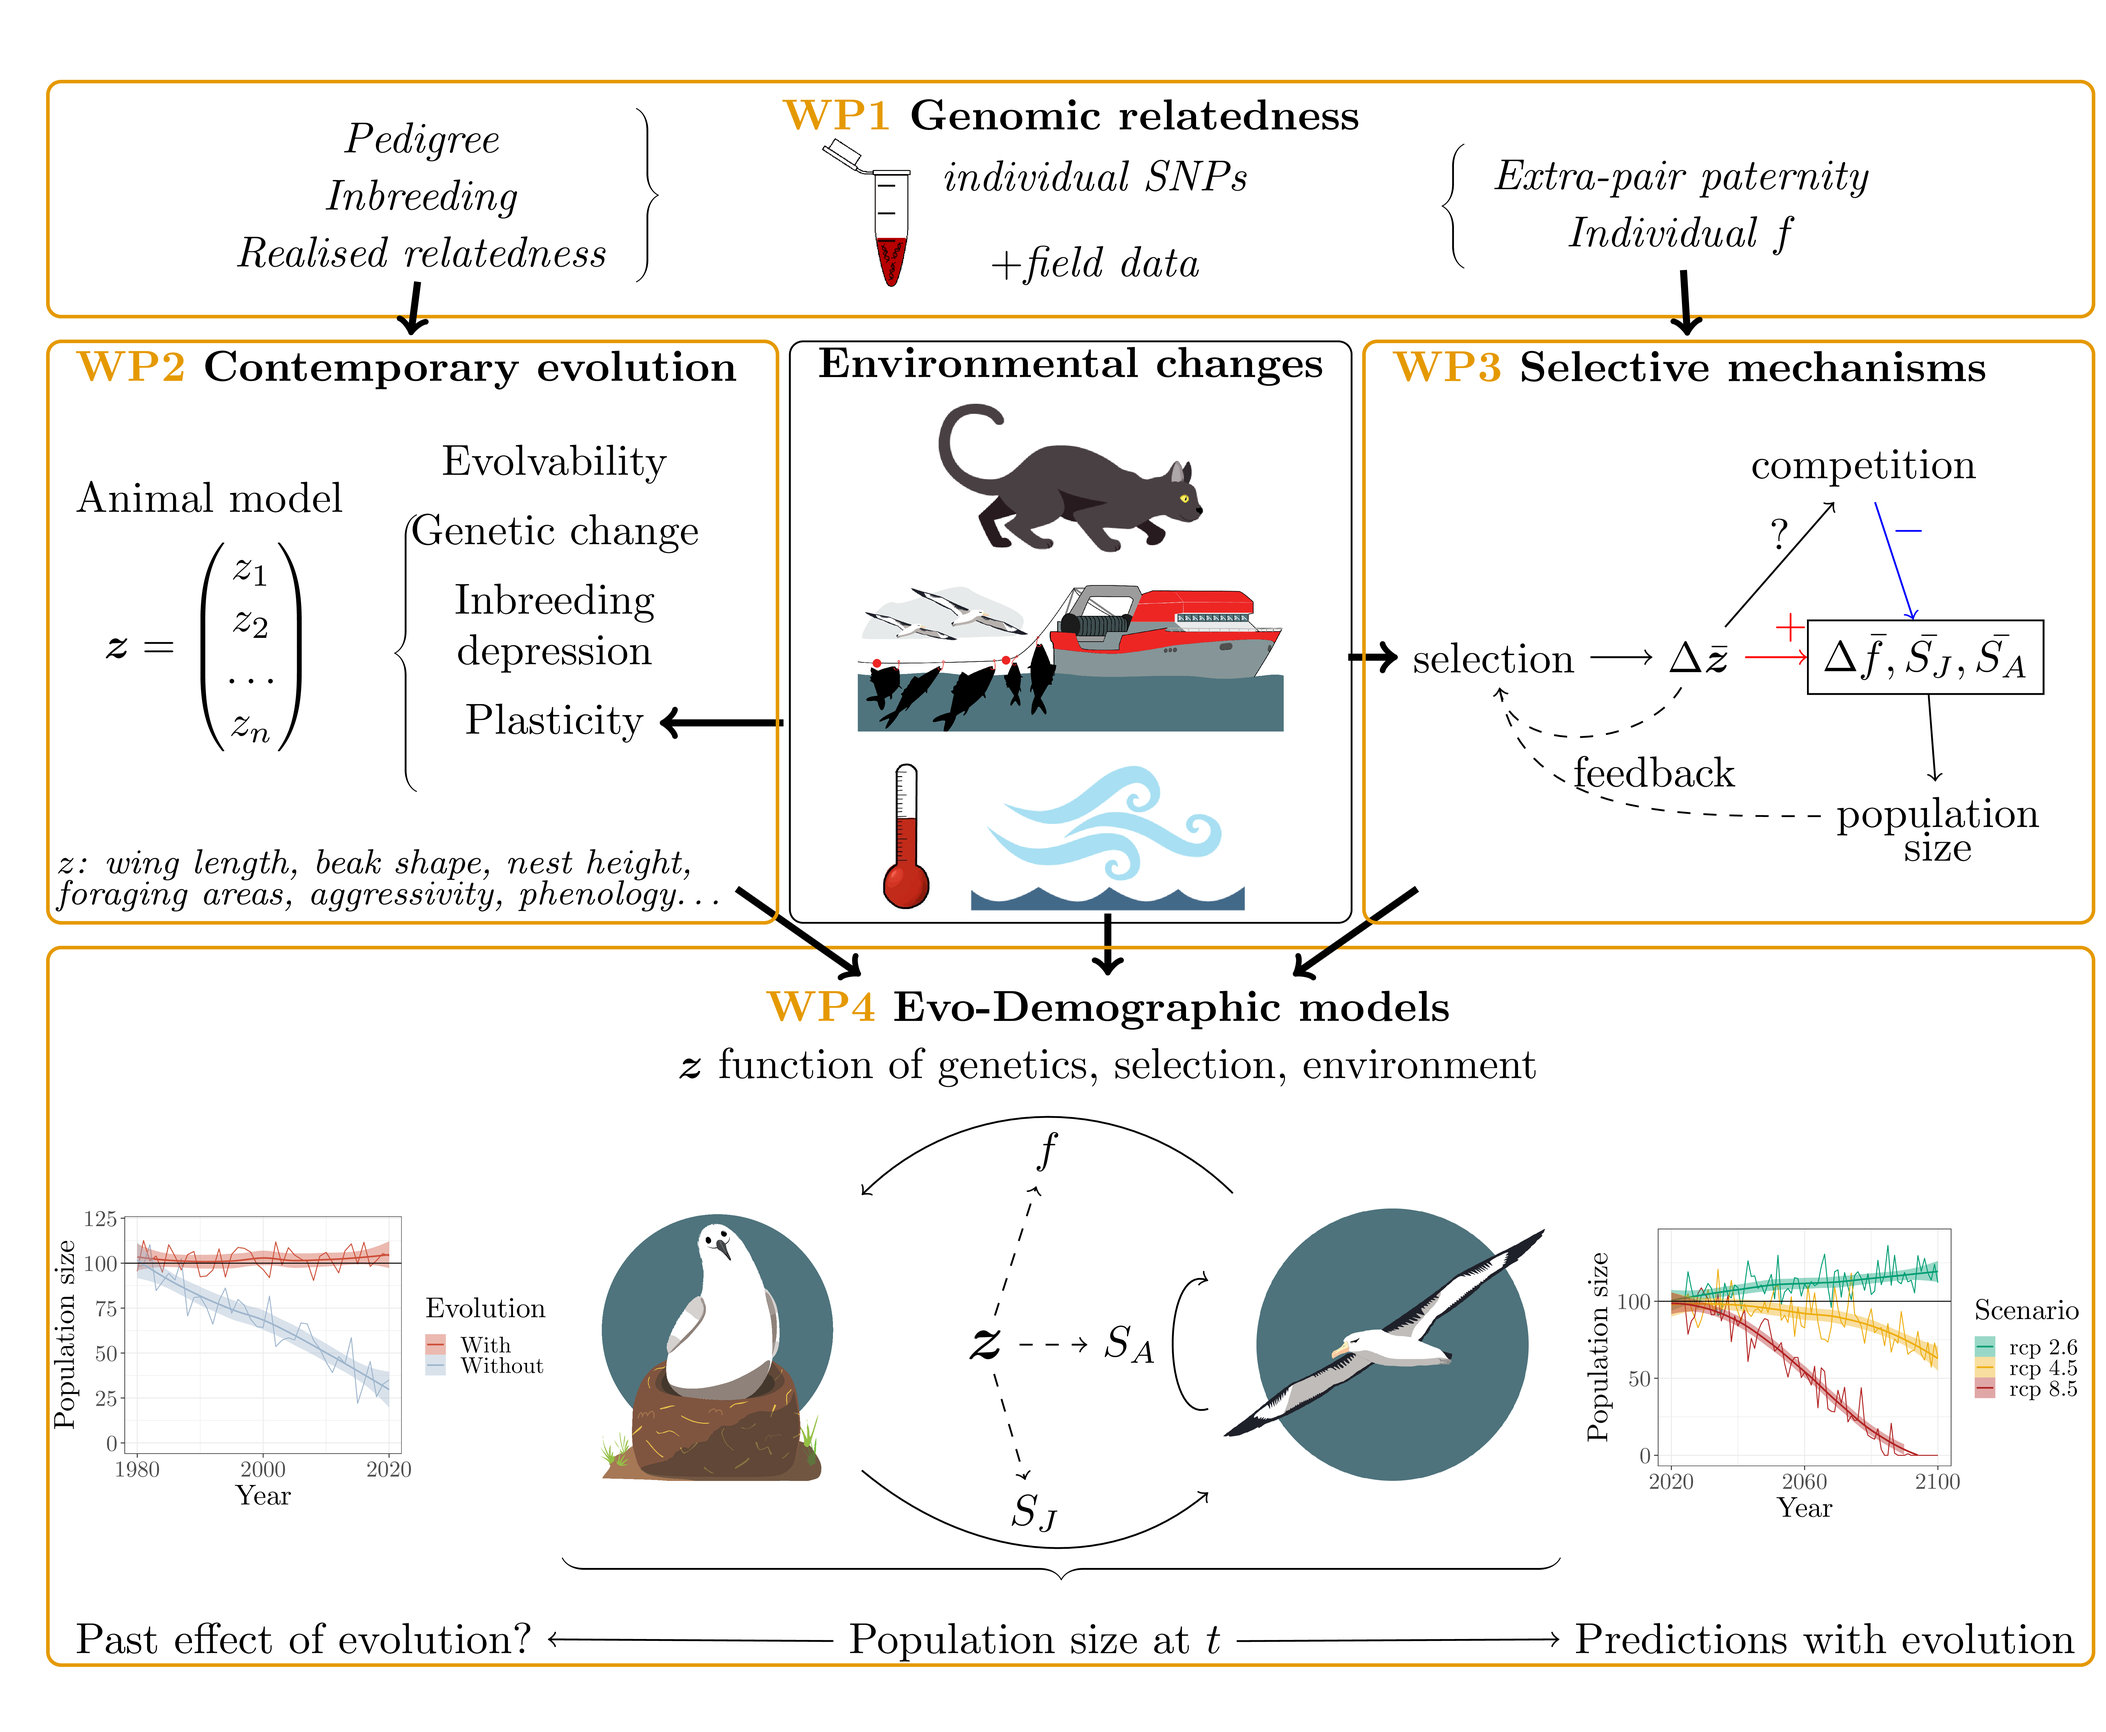
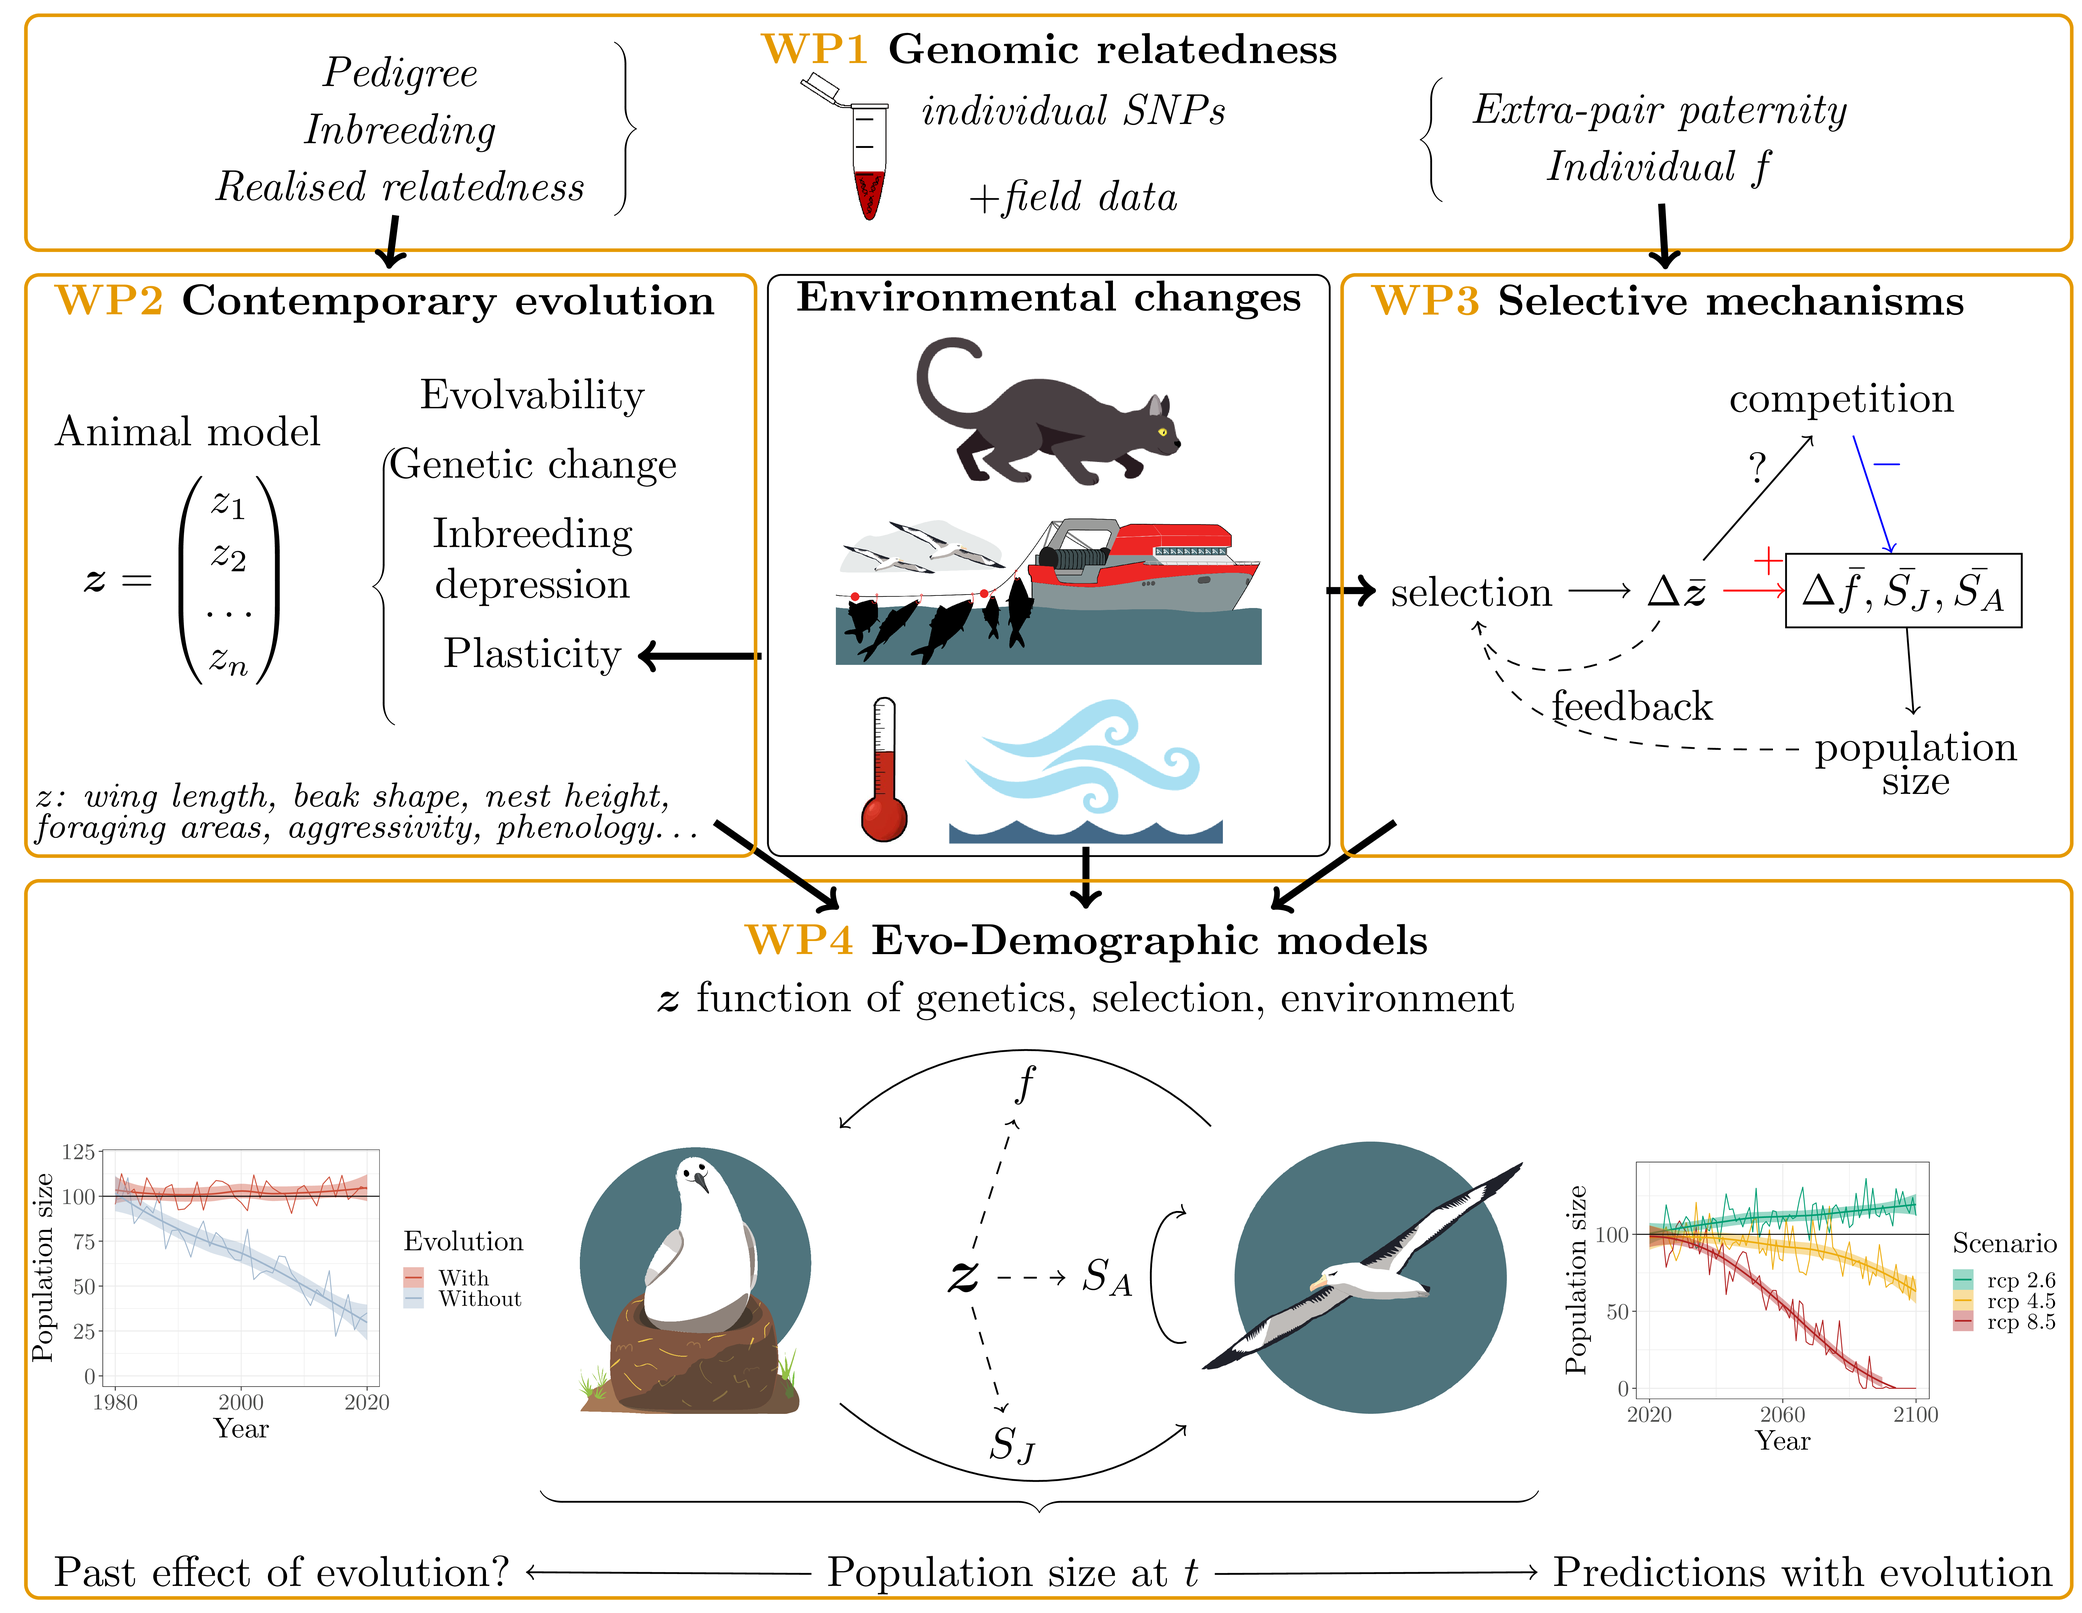
++

diff --git a/dwells/index.md b/dwells/index.md
@@ -11,8 +11,33 @@ image:
   creditlink: http://timotheenivalis.github.io
 ---
 
-The project Demography With Evolution in Long-Lived Seabirds (**DWELLS**) is funded by the *Agence Nationale de la Recherche* from 2025 to 2028. This page provides 
+The project Demography With Evolution in Long-Lived Seabirds (**DWELLS**) from 2025 to 2028. On this page I briefly present the project and will post updates on results and scientific contributions. 
+
+The project is funded by the *Agence Nationale de la Recherche*, takes place at CEBC, with logistical support from the French polar institute IPEV and the French Antarctic and sub-antarctic territories (TAAFs).
+
+![](/images/anr-logo-footer-2021-2.png) ![](/images/logo_CEBC.png)  ![](/images/ipev-214553532white.png) ![](/images/taaf)
+
+
+## The project context and goals
 
 
 
-![Graphical summary of the DWELLS project](/images/graphgoals.png "DWELLS goals") 
+![Graphical summary of the DWELLS project](/images/graphgoals.jpg "Graphical summary of the DWELLS project goals")
+
+Apart from me, the project involves Christophe Barbraud, Karine Delord, Cécile Ribout, Céline Bocquet and a post-doc still to be hired. Although not funded by the project, Pauline Richard's PhD project contributes to WP2 and WP3. 
+
+
+## Progress and results
+
+### Update on October 13th, 2025
+
+
+
+## Publications and talks
+
+
+
+## Outreach
+
+We hope to produce a video to present the project outcomes. But let's get some results first!
+
